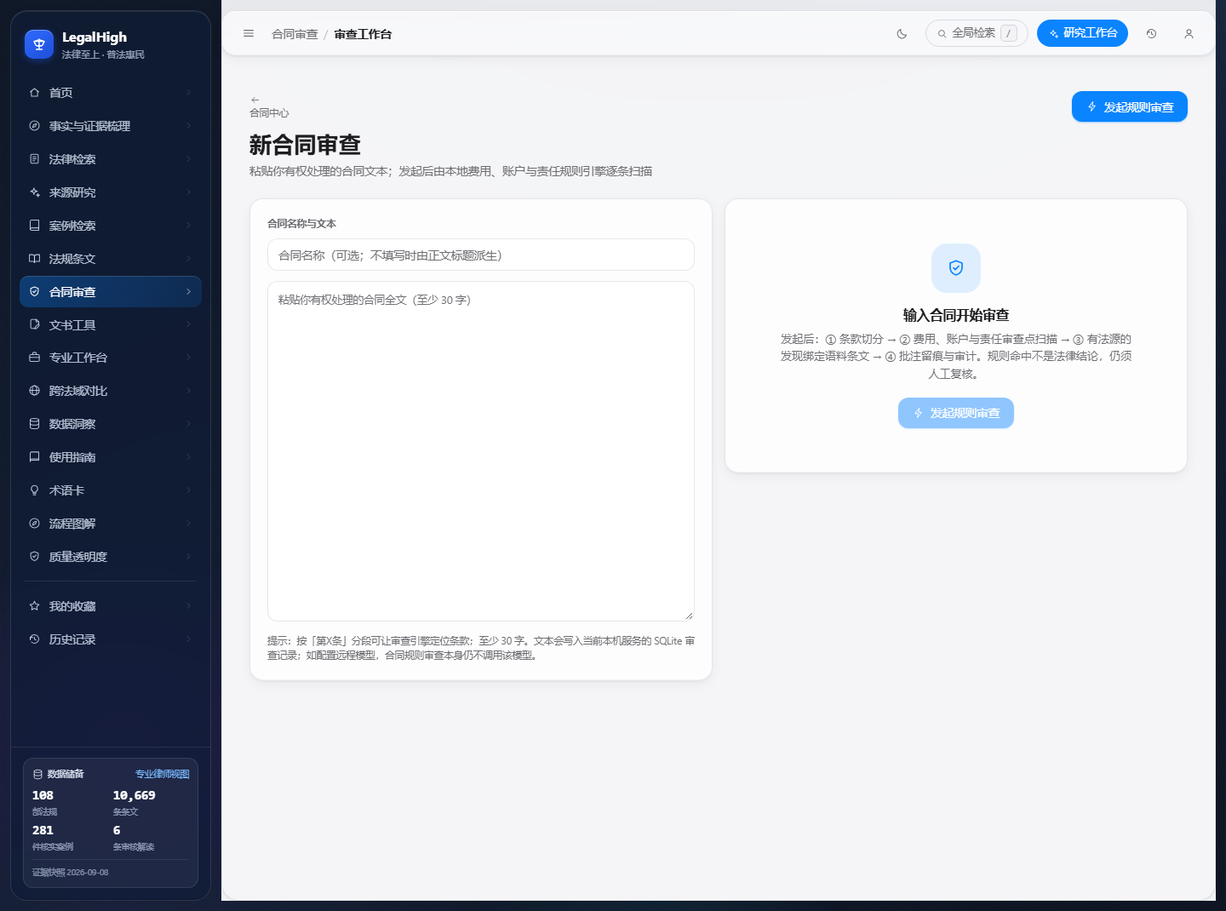
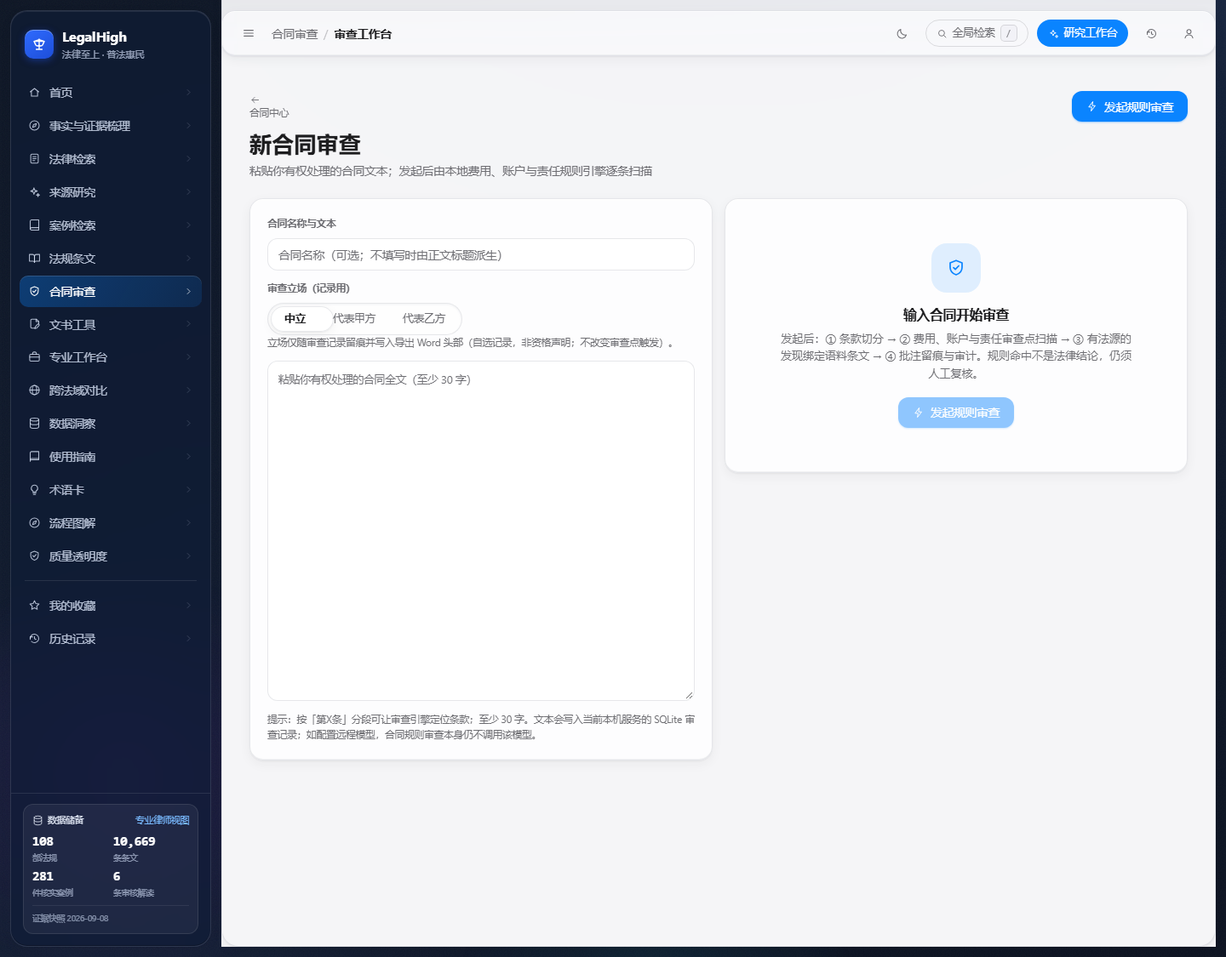
feat(review): 审查立场声明全链落地（R438，R437-T1）——表单 Segmented→result_json 持久化零迁移→Word 头部诚实措辞，6 契约测试+定向重拍+视觉验收（pytest 437→443）

diff --git a/web/src/components/pages/ContractReview.tsx b/web/src/components/pages/ContractReview.tsx
@@ -5,9 +5,10 @@ import { Link, useParams } from 'react-router-dom'
 import { Icon } from '../icons'
 import { ActionSheet, EmptyState, PageHeader, Segmented, useMediaQuery, useToast, fmtTime, type SheetAction } from '../ui'
 import { CitationChip } from '../domain'
-import { api, ApiError, type Annotation, type AuditEntry, type Finding, type Review } from '../../lib/api'
+import { api, ApiError, type Annotation, type AuditEntry, type Finding, type Review, type ReviewStance } from '../../lib/api'
 
 const CATEGORY_LABEL: Record<string, string> = { fee: '费用', account: '账户', liability: '责任' }
+const STANCE_LABEL: Record<ReviewStance, string> = { party_a: '代表甲方', party_b: '代表乙方', neutral: '中立' }
 const STATE_LABEL: Record<Annotation['state'], { label: string; cls: string }> = {
   pending: { label: '待复核', cls: 'bdg-orange' },
   adopted: { label: '已采纳', cls: 'bdg-green' },
@@ -34,6 +35,8 @@ export default function ContractReview() {
   const [amendText, setAmendText] = useState('')
   const returnFileRef = useRef<HTMLInputElement>(null)
   const [reviewTitle, setReviewTitle] = useState('')
+  // 审查立场（R437-T1）：使用者自选记录，不改变审查点触发
+  const [stance, setStance] = useState<ReviewStance>('neutral')
   const [reviewText, setReviewText] = useState('')
   // 窄屏（R336）：三栏工作台转分步向导（目录/正文/风险 单选切换）；桌面三栏不变
   const isNarrow = useMediaQuery('(max-width: 767.98px)')
@@ -61,7 +64,7 @@ export default function ContractReview() {
     if (!reviewText.trim()) { toast('审查文本为空', 'err'); return }
     setBusy(true); setError(null)
     try {
-      const created = await api.createReview(reviewText, reviewTitle.trim() || undefined)
+      const created = await api.createReview(reviewText, reviewTitle.trim() || undefined, stance)
       setRid(created.review_id)
       toast('规则审查完成：费用、账户与责任审查点已扫描', 'ok')
     } catch (e) {
@@ -181,6 +184,13 @@ export default function ContractReview() {
               <div className="tiny bold">合同名称与文本</div>
             </div>
             <input className="inp mb-12" aria-label="合同名称" placeholder="合同名称（可选；不填写时由正文标题派生）" value={reviewTitle} onChange={(e) => setReviewTitle(e.target.value)} />
+            <div className="row mb-8"><div className="tiny bold">审查立场（记录用）</div></div>
+            <Segmented ariaLabel="审查立场选择" value={stance} onChange={(k) => setStance(k as ReviewStance)} options={[
+              { key: 'neutral', label: '中立' },
+              { key: 'party_a', label: '代表甲方' },
+              { key: 'party_b', label: '代表乙方' },
+            ]} />
+            <div className="tiny mb-12">立场仅随审查记录留痕并写入导出 Word 头部（自选记录，非资格声明；不改变审查点触发）。</div>
             <textarea className="ta" aria-label="合同文本" placeholder="粘贴你有权处理的合同全文（至少 30 字）" style={{ minHeight: 400, fontSize: 12.5, lineHeight: 1.9 }} value={reviewText} onChange={(e) => setReviewText(e.target.value)} />
             <div className="tiny mt-8">提示：按「第X条」分段可让审查引擎定位条款；至少 30 字。文本会写入当前本机服务的 SQLite 审查记录；如配置远程模型，合同规则审查本身仍不调用该模型。</div>
           </div>
@@ -218,6 +228,7 @@ export default function ContractReview() {
               })}
             </div>
             <div className="panel-f">
+              <div className="tiny mb-8">审查立场：<b>{STANCE_LABEL[review.result.stance ?? 'neutral']}</b>（自选记录，非资格声明）</div>
               <div className="risk-stat" style={{ marginBottom: 10 }}>
                 <div className="rs-box rs-high"><b>{review.result.summary.high}</b>高风险</div>
                 <div className="rs-box rs-mid"><b>{review.result.summary.medium}</b>中风险</div>

diff --git a/web/src/lib/api.ts b/web/src/lib/api.ts
@@ -110,8 +110,12 @@ export interface Finding {
 
 export interface Clause { id: string; label: string; heading: string; text: string }
 
+export type ReviewStance = 'party_a' | 'party_b' | 'neutral'
+
 export interface ReviewResult {
   title: string
+  /** 审查立场（R437-T1）：使用者自选记录，非资格声明；不改变审查点触发。 */
+  stance?: ReviewStance
   clauses: Clause[]
   findings: Finding[]
   summary: { high: number; medium: number; low: number; by_category: Record<ReviewCategory, number> }
@@ -295,15 +299,15 @@ export const api = {
   }>('/evals'),
 
   // 合同审查
-  analyzeContractText: (contractText: string, title?: string) =>
+  analyzeContractText: (contractText: string, title?: string, stance?: ReviewStance) =>
     req<ReviewResult>('/reviews/analyze', {
       method: 'POST',
-      body: JSON.stringify({ contract_text: contractText, title }),
+      body: JSON.stringify({ contract_text: contractText, title, stance }),
     }),
-  createReview: (contractText: string, title?: string) =>
+  createReview: (contractText: string, title?: string, stance?: ReviewStance) =>
     req<{ review_id: string } & ReviewResult>('/reviews', {
       method: 'POST',
-      body: JSON.stringify({ contract_text: contractText, title }),
+      body: JSON.stringify({ contract_text: contractText, title, stance }),
     }),
   getReview: (rid: string) => req<Review>(`/reviews/${rid}`),
   transitionAnnotation: (rid: string, findingId: string, action: 'adopt' | 'amend' | 'reject' | 'reopen', amendedText?: string) =>

diff --git a/server/tests/test_review_stance.py b/server/tests/test_review_stance.py
@@ -1,0 +1,90 @@
+# -*- coding: utf-8 -*-
+"""审查立场（stance，R437-T1）契约测试：可选枚举、缺省中立、持久化与 DOCX 头部呈现。
+
+设计边界（docs/plan/合同审查方法论吸收设计-2026-09-29.md §T1）：
+立场只做记录与呈现，不改变审查点触发——引擎输出对 stance 无感，
+断言重点是「记录-持久化-导出」三段链路与非法值拒绝。
+"""
+import io
+import zipfile
+
+from fastapi.testclient import TestClient
+
+from app.main import app
+
+ADMIN_TOKEN = "stance-admin-token-0123456789-abcdef"  # ≥32 字符（fail-closed 纪律）
+CONTRACT = "第一条 费用：甲方应向乙方支付定金人民币五万元（占合同总价百分之三十）。第二条 本协议最终解释权归甲方所有。"
+
+
+def _headers():
+    return {"X-LegalHigh-Admin-Token": ADMIN_TOKEN}
+
+
+def _setup(monkeypatch):
+    monkeypatch.setenv("LH_ADMIN_TOKEN", ADMIN_TOKEN)
+    monkeypatch.setenv("LH_ADMIN_PRINCIPAL", "stance-tester")
+
+
+def test_stance_defaults_to_neutral_and_persists(tmp_db, monkeypatch):
+    _setup(monkeypatch)
+    with TestClient(app) as client:
+        r = client.post("/api/reviews", headers=_headers(), json={"contract_text": CONTRACT})
+        assert r.status_code == 200
+        rid = r.json()["review_id"]
+        assert r.json()["stance"] == "neutral"  # 缺省中立
+        got = client.get(f"/api/reviews/{rid}", headers=_headers()).json()
+        assert got["result"]["stance"] == "neutral"  # 随 result_json 持久化
+
+
+def test_stance_optional_enum_roundtrip(tmp_db, monkeypatch):
+    _setup(monkeypatch)
+    with TestClient(app) as client:
+        r = client.post("/api/reviews", headers=_headers(),
+                        json={"contract_text": CONTRACT, "stance": "party_b"})
+        assert r.status_code == 200 and r.json()["stance"] == "party_b"
+        rid = r.json()["review_id"]
+        got = client.get(f"/api/reviews/{rid}", headers=_headers()).json()
+        assert got["result"]["stance"] == "party_b"
+
+
+def test_stance_invalid_value_rejected(tmp_db, monkeypatch):
+    _setup(monkeypatch)
+    with TestClient(app) as client:
+        r = client.post("/api/reviews", headers=_headers(),
+                        json={"contract_text": CONTRACT, "stance": "lawyer"})
+        assert r.status_code == 422  # 枚举外拒绝（extra 校验纪律同 GateBody）
+
+
+def test_analyze_dry_run_echoes_stance(tmp_db, monkeypatch):
+    _setup(monkeypatch)
+    with TestClient(app) as client:
+        r = client.post("/api/reviews/analyze", json={"contract_text": CONTRACT, "stance": "party_a"})
+        assert r.status_code == 200 and r.json()["stance"] == "party_a"
+        r2 = client.post("/api/reviews/analyze", json={"contract_text": CONTRACT})
+        assert r2.json()["stance"] == "neutral"
+
+
+def _docx_text(data: bytes) -> str:
+    with zipfile.ZipFile(io.BytesIO(data)) as z:
+        return z.read("word/document.xml").decode("utf-8")
+
+
+def test_docx_header_carries_stance_label(tmp_db, monkeypatch):
+    _setup(monkeypatch)
+    with TestClient(app) as client:
+        rid = client.post("/api/reviews", headers=_headers(),
+                          json={"contract_text": CONTRACT, "stance": "party_a"}).json()["review_id"]
+        data = client.get(f"/api/reviews/{rid}/docx", headers=_headers()).content
+    text = _docx_text(data)
+    assert "审查立场：代表甲方" in text
+    assert "非资格声明" in text  # 诚实边界随行
+
+
+def test_docx_header_neutral_when_absent(tmp_db, monkeypatch):
+    """旧记录（无 stance 字段）导出：中立（未声明），不崩不编造。"""
+    _setup(monkeypatch)
+    with TestClient(app) as client:
+        rid = client.post("/api/reviews", headers=_headers(),
+                          json={"contract_text": CONTRACT}).json()["review_id"]
+        data = client.get(f"/api/reviews/{rid}/docx", headers=_headers()).content
+    assert "中立（未声明）" in _docx_text(data)

diff --git a/server/app/main.py b/server/app/main.py
@@ -14,6 +14,7 @@ from contextlib import asynccontextmanager
 from dataclasses import dataclass
 from datetime import date
 from pathlib import Path
+from typing import Literal
 
 from functools import lru_cache as cache
 from fastapi import Depends, FastAPI, File, Header, HTTPException, Request, UploadFile
@@ -567,6 +568,9 @@ def case_report_docx(body: CaseBody):
 class AnalyzeBody(BaseModel):
     title: str | None = Field(default=None, max_length=256)
     contract_text: str = Field(min_length=1, max_length=200_000)
+    # 审查立场（R437-T1，contract-review-pro 方法论吸收设计）：使用者自选记录，
+    # 只做记录与呈现（DOCX 头部/详情），不改变审查点触发——立场驱动规则属 T4 内容管线。
+    stance: Literal["party_a", "party_b", "neutral"] | None = Field(default=None)
 
 
 @app.post("/api/reviews/analyze")
@@ -574,6 +578,7 @@ def analyze(body: AnalyzeBody):
     if len(body.contract_text.strip()) < 30:
         raise HTTPException(422, "合同文本过短（至少 30 字）")
     result = review.analyze_contract(body.contract_text, body.title)
+    result["stance"] = body.stance or "neutral"
     # Evidence Ledger（FLERF §19/§23，R170）：审查依据条目入 append-only 账本。
     # dry-run 无持久 id——实体用随机 uuid，payload 只含公共条文哈希，不带合同文本。
     _write_evidence_ledger("review", [f.get("citation") for f in result.get("findings", []) if f.get("citation")])
@@ -599,6 +604,7 @@ def _write_evidence_ledger(entity_type: str, citations: list, actor: str = "anon
 @app.post("/api/reviews")
 def create_review(body: AnalyzeBody, admin: AdminPrincipal = Depends(require_admin)):
     result = review.analyze_contract(body.contract_text, body.title)
+    result["stance"] = body.stance or "neutral"  # 随 result_json 持久化（零 schema 迁移）
     rid = storage.create_review(result["title"], body.contract_text, result, actor=admin.name)
     # 账本实体=持久 rid（区别于 dry-run 的 uuid）；与 create 审计行同实体可并读
     _write_evidence_ledger("review", [f.get("citation") for f in result.get("findings", []) if f.get("citation")],

diff --git a/server/app/docxgen.py b/server/app/docxgen.py
@@ -158,6 +158,10 @@ def generate_review_docx(review: dict) -> bytes:
     date = datetime.now(timezone.utc).strftime("%Y-%m-%dT%H:%M:%SZ")
     doc.add_heading(review.get("title") or "合同审查记录", level=0)
     doc.add_paragraph(f"审查时间：{review.get('created_at', '')}　审查点：{review['result']['engine_meta']['checkpoint_count']} 个　风险：高 {review['result']['summary']['high']} / 中 {review['result']['summary']['medium']} / 低 {review['result']['summary']['low']}")
+    # 审查立场（R437-T1）：使用者自选记录，非资格声明；立场不改变审查点触发。
+    _stance_label = {"party_a": "代表甲方", "party_b": "代表乙方"}.get(
+        (review.get("result") or {}).get("stance"), "中立（未声明）")
+    doc.add_paragraph(f"审查立场：{_stance_label}（使用者自选记录，非资格声明；立场不改变审查点触发）")
     by_clause: dict = {}
     for f in review["result"]["findings"]:
         by_clause.setdefault(f.get("clause_id") or "__whole__", []).append(f)

diff --git a/AGENTS.md b/AGENTS.md
@@ -215,6 +215,7 @@
   - **第四百三十五轮（2026-09-29，检索实验收账轮——两负/中性实验如实入册 + g15 受控组收口，pytest 429→435）**：①**召回缺失诊断**：g30（标的物瑕疵履行）原始 BM25 **#40**（池可及）；g15（标价）**#179**（重排不可及）；labor×2 **#735/#1934**（深鸿沟，编排层已兜底）。②**实验 1 候选池 20→30/50**（全量 541 A/B）：池扩后归一化区间变宽压低边界候选相对分——**打落 gold-ad-false-ad 未救回 g30**（其在 50 候选中仍排 >5）→ 不采用。③**实验 2 数字写法归一化**（R39 登记的「两年/二年、30/三十」鸿沟类型；中文数字串→阿拉伯的确定性解析器，对称作用于查询与正文的覆盖度 bigram）：**中性零变化**——当前金标无数字鸿沟 miss（R39 时代案例已改题实录），R39 悬问就此定案「备而不采」（变体与解析器入本轮登记，未来 badcase 出现可直接复测）。④**g15「标价」构词鸿沟收口**：复合词「标价」在目标条文拆为「标明…价格」（crpl-imp-2024#10）——按 ADR-0005 模式新增 consumer-pricing 受控组（when=标价|价签|明码标价|计价单位|价格标示，组查询=条文规范词面「标明商品的品名 价格 计价单位 价签价目齐全」，组内实测 #1=实施条例#10、#2=价格法#13 双合法命中）；编排层三问法 crpl#10 稳定 r2（raw#1=价格法#13 亦合法），负向守卫（无标价词不激活）+端到端 qa 答案卡双含两法条文——**6 项钉子测试**（tests/test_consumer_pricing_retrieval.py，ADR 式名次锚 r2）。⑤**主线收敛定案**：重排（R430/R431 两代）与召回实验全部可试信号已穷尽（数字归一中性/池扩展打落/字段扩展无增益/词典与查询扩展两次负结果在册）——确定性改进到此收敛，进一步增益属语义再评估（gated 既有判定）。验证：pytest **435** 全绿（labor ADR-0005 锚与 needs/qa 定向回归先过）。
   - **第四百三十六轮（2026-09-29，时点对照全时间线性质门——as_of 覆盖从 11 项抽查升级为全量扫描，pytest 435→437）**：B5（版本冲突金标维度）的**诚实适配定案**：legal-kb 式「时点 T 应引旧版答案」金标与本项目 as_of 合规设计冲突（检索恒为现行版+同条号对照+明示「不构成时点适用认定」——R144 口径），不采纳该形态；正确形态=**registry 派生的非循环性质门**（tests/test_temporal_timeline_sweep.py）：P1 适用下界（d=max(公布,施行) 当日解析不得早于该版本）/P2 生效前不可用（d-1 日解析须 None 或严格更早）/P3 远期取最新（2099 年=(公布,施行) 字典序最大者）——性质从注册表日期独立派生，不与 applicable_version 实现共享判定逻辑；P4 对照链路（76 部多版本法全量：最新非现行版本在其适用起点日，historical_for_card 用该版本首条条号返回该版本文本）。**实测覆盖：300 带日期版本×P1/P2 + 108 部×P3 + 76 部×P4 ≈ 780+ 断言全过零违规**（首跑即过非空转——覆盖数已程序化打印核实）。教训沉淀：**「升级覆盖面」类门必须打印实际断言数防空转（路径错/零文件=静默全绿）**。验证：pytest **437** 全绿。
   - **第四百三十七轮（2026-09-29，合同审查方法论吸收设计先行件——B3 的内容闸门定案）**：contract-review-pro（R434 登记，MIT）方法论对映设计落档 `docs/plan/合同审查方法论吸收设计-2026-09-29.md`：T1 立场声明（stance 可选字段=记录呈现不改规则，无内容闸门可即时执行——**B3 下一执行项**）；T2 框架审阅四问（语义判断确定性不可实现，归 AI 提示层+四重门，随额度窗口）；**T3 w:del 修订路由的「内容先行」定案**——当前两条含「删除」的建议（L3「删除或改写」二义、L4 条款内短语级）都不能整段删、从自由文本抽删除跨度=非确定性法律内容操作，纯工程先行只会产出死代码（违反「假交互要么实现要么禁用」纪律）；蓝图=checkpoints 可选 revision 块（action=delete|replace + target 逐字跨度 + replacement）+构建期「target 必须逐字存在于条款文本」程序化校验（同术语卡引用核验纪律）+首批候选（最终解释权表述删除/定金比例数字替换——数字级替换法律确定性最高）+replacement 文本逐条走审查点金标（决策 13），MIT 出处注明；T4 风险点模板按合同类型（租赁/劳动/买卖，语料已备）金标三件套滚动。纯设计轮无运行时改动。
+  - **第四百三十八轮（2026-09-29，T1 立场声明落地——审查立场全链（表单→持久化→Word 头部），pytest 437→443）**：R437 设计的首件即时执行：①**后端**——`AnalyzeBody` 增可选 `stance`（Literal 枚举 party_a|party_b|neutral，枚举外 422 与 GateBody 同纪律）；analyze/create 两端点回填 `result["stance"]`（缺省 neutral），**随 result_json 持久化零 schema 迁移**（reviews 表本就整存 result）；②**DOCX**——修订导出头部第二行「审查立场：代表甲方/乙方/中立（未声明）（使用者自选记录，非资格声明；立场不改变审查点触发）」诚实措辞随行，旧记录（无 stance）导出为「中立（未声明）」不编造；③**前端**——ContractReview 表单增 Segmented 三段立场选择器（默认中立）+小字说明，创建请求携带 stance，结果面板风险统计上方显示立场行；api.ts ReviewStance 类型+双方法签名。④**验证**：6 项契约测试（缺省中立持久化/枚举往返/非法值 422/dry-run 回显/DOCX 头部立场/旧记录兜底）；tsc/lint/build 绿；**隔离服务定向重拍 14-contracts+15-contract-review strict 0 问题**（8013+5199 双令牌环境，R410 纪律）+ visual-judge 视觉验收 PASS（立场区块位置/选中态/说明行/整体布局）；pytest **443** 全绿；targeted 巡检截断的 report.json 按 R406 先例恢复全量记录。
   - **第三百二十一轮（2026-09-23，GLM-4.7-Flash 推理模型行为定案——NLI 评测仍受免费额度限制）**：GLM API 短暂恢复后实测三个关键发现：①**GLM-4.7-Flash 是推理模型**——输出走 reasoning_content（model_extra 字段）而非 content，max_tokens=8/50 时全部 token 耗在推理链上 content 为空（test_connection 的空响应根因），max_tokens≥1000 时正常产出（reasoning ~1549 tokens + content 答案）；②**ai_governor 的 MAX_OUTPUT_TOKENS=4096 已兼容**推理模型——正式 chat 调用无问题；③**免费额度限制批量评测**——单次调用可通过但 llm_eval 连续查询即触发 429（免费 tier RPM 极低），NLI 全量评测（541 组×多次调用）需付费额度或等待非高峰时段。技术发现登记供后续 NLI 评测执行时参考。
   - **第三百一十至三百一十八轮（2026-09-23，产品导航与生态层密集迭代——九个功能特性全部落地推送）**：
   - **R310 搜索建议下拉**：SearchSuggest.tsx——实时匹配 215 张术语卡引导从口语到法条词面（纯 JS 零依赖，词面 startsWith/includes 评分排序，↓↑ 键盘导航+Enter 跳转），直接解决金标集实录的词法鸿沟 UX 问题（ac825e3）。

diff --git a/CHANGELOG.md b/CHANGELOG.md
@@ -4,6 +4,8 @@
 
 ### Added / 新增
 
+- Review stance declaration, end to end (R438, design item T1 of the contract-review methodology absorption): the review-creation form now carries an explicit stance — 中立 / 代表甲方 / 代表乙方 (default neutral, Segmented control) — that is recorded with the review, shown in the results panel, and written into the exported revision DOCX's header as "审查立场：…（使用者自选记录，非资格声明；立场不改变审查点触发）". Backend: optional `stance` enum on the analyze/create bodies (out-of-enum values rejected 422, same extra-validation discipline as GateBody), echoed into `result["stance"]` so it persists inside result_json with zero schema migration; legacy records without the field export as "中立（未声明）" — no fabrication. By design the stance is record-and-present only: checkpoint firing is untouched (stance-driven rule differences belong to the T4 content pipeline). Six contract tests (default-neutrality persistence, enum round-trip, invalid-value rejection, dry-run echo, DOCX header label, legacy-record fallback); tsc/lint/build green; targeted strict re-sweep of both contract-review routes against an isolated token-configured server pair (0 problems) plus visual-judge acceptance of the new form block; pytest 437→443.
+
 - Temporal full-timeline property gate — as_of coverage upgraded from 11 spot tests to a whole-registry sweep (R436): the B5 backlog item ("version-conflict gold dimension", legal-kb inspired) was first adjudicated against the product's own compliance design — a "at timepoint T the answer must cite the old version" gold would contradict the deliberately conservative as_of contract (search always runs on the current text; as_of attaches same-number historical contrast plus an explicit "this is not a determination of the timepoint-applicable text" notice, R144), so that form is rejected on record. The correct adaptation landed as tests/test_temporal_timeline_sweep.py: registry-derived, non-circular properties over every dated version — P1 lower bound (at d=max(promulgation,effective), the resolved version must not be strictly earlier), P2 not-yet-in-force (at d−1, resolution must be None or strictly earlier), P3 far-future (2099 resolves to the lexicographically-latest dated version), and P4 contrast path (for each of the 76 multi-version laws with fulltext, at the applicable-start date of its latest non-current version, historical_for_card with that version's own first article returns that version's text). Measured coverage: 300 dated versions × P1/P2 + 108 registries × P3 + 76 laws × P4 ≈ 780+ assertions, zero violations on first run — with the assertion count programmatically printed to rule out a vacuous pass (a sweep that silently matched zero files would otherwise be all-green). pytest 435→437.
 
 - Retrieval-experiment settlement round: two honest negatives filed, g15 closed via a controlled pricing group (R435): recall-miss diagnosis located the four stragglers at raw-BM25 #40 (标的物 defect liability), #179 (标价), and #735/#1934 (labor, already covered by the ADR-0005 orchestrated groups). Experiment 1 — extending the rerank candidate pool 20→30/50 — fails the rule-⑲ gate: the wider min-max normalization range demotes a borderline hit (gold-ad-false-ad) while g30 still ranks past 5 among 50 candidates; not adopted. Experiment 2 — digit-normalization coverage (the R39 gap type: 两年/二年、30/三十; deterministic Chinese-numeral-run parser applied symmetrically to query and article bigrams) — measures exactly zero change on the current 541-case gold: no digit-gap misses survive (the R39-era case was reworded at annotation time), settling the long-registered question as "prepared, not adopted" with the parser on file for direct re-testing when a real badcase appears. The one viable rescue landed: the compound-word gap 「标价」 vs 「标明…价格」 is closed with a consumer-pricing controlled group in the ADR-0005 pattern (when-gated on 标价/价签/明码标价/计价单位/价格标示; group query = the article's own normative vocabulary, top-1=Implementation-Regulations art. 10, top-2=Price-Law art. 13 — both legitimate answers); orchestrated search puts crpl#10 at a stable rank 2 across three question variants with the negative guard (no pricing words → group inert) and an end-to-end qa check, pinned by six new tests. With this round the deterministic-improvement line converges: every candidate signal (dictionary, query expansion, field extension, digit normalization, pool extension, two rerank generations) has been tried and measured — further gains belong to semantic re-evaluation under its standing gate. pytest 429→435.

diff --git a/docs/plan/待执行项价值排序-2026-09-29.md b/docs/plan/待执行项价值排序-2026-09-29.md
@@ -21,7 +21,7 @@
 |---|---|---|---|---|
 | B1 | 检索重排三代实验：剩余 16 miss（12 排序不足 + 4 召回缺失） | 高（hit@5 0.9704→天花板约 0.977 内） | 低 | **R435 已清账**：数字写法归一化=中性零变化（R39 悬问定案「备而不采」）；候选池 20→30/50=打落 1 例不采用；label+chapter 字段无增益（R431 实验位）。剩余 12 排序不足无新确定性信号可试——重排主线到此收敛，下一步是语义再评估（gated 既有判定） |
 | B2 | 召回层实验（4 召回缺失：g15 标价/g30 标的物/labor×2） | 中高 | 中 | **R435 部分收口**：g15「标价」构词鸿沟已由 consumer-pricing 受控组收口（编排层 r2，ADR-0005 模式）；g30 原始 BM25 #40（池扩展可及但打落他例，不采用，留档）；labor×2 深鸿沟（#735/#1934）已有编排层受控组兜底（ADR-0005）——召回层实验就此收账，无进一步动作 |
-| B3 | 合同审查方法论吸收（contract-review-pro，MIT） | 中高 | 中-高 | **R437 设计先行件已落档**（docs/plan/合同审查方法论吸收设计-2026-09-29.md）：T1 立场声明（stance 可选字段，记录呈现不改规则——**下一执行项**）/T2 框架审阅四问（AI 提示层，随额度窗口）/T3 w:del 修订路由（**内容先行定案**：revision 块 schema+构建期 target 逐字校验+首批 3-5 个确定性内容，工程件随内容同轮落地防死代码）/T4 风险点模板按合同类型滚动扩容 |
+| B3 | 合同审查方法论吸收（contract-review-pro，MIT） | 中高 | 中-高 | **R437 设计先行件已落档**（docs/plan/合同审查方法论吸收设计-2026-09-29.md）：T1 立场声明（**R438 已落地全链**：表单→持久化→Word 头部，6 契约测试）/T2 框架审阅四问（AI 提示层，随额度窗口）/T3 w:del 修订路由（**内容先行定案**：revision 块 schema+构建期 target 逐字校验+首批 3-5 个确定性内容，工程件随内容同轮落地防死代码）/T4 风险点模板按合同类型滚动扩容 |
 | B4 | Agent Skill 外部分发 | 中 | 极低 | `skills/legalhigh/SKILL.md` 已就绪（R433）；legal-skillhub/Greater-China-Legal 收录申请 = 一次 PR/issue（gated A2） |
 | B5 | 版本冲突/位阶冲突金标维度（legal-kb 启发） | 中 | 低-中 | **R436 已落地（诚实适配形态）**：legal-kb 式「时点应引旧版」金标与 as_of 保守对照设计冲突（R144 口径）不采纳；落地为 registry 派生非循环性质门（300 版本×P1/P2 + 108 部 P3 + 76 部 P4 对照 ≈780+ 断言全过，pytest 435→437） |
 | B6 | laws-md/laws.json 镜像门扩展到 CI 快门 | 低中 | 极低 | R432 已有 3 项钉子测试进 pytest；可选：pre-commit 快门加 export 幂等检查（导出两次 diff 为空） |

diff --git a/README.md b/README.md
@@ -125,7 +125,7 @@ cd web && npm ci && npm run dev
 
 | 门禁 / Gate | 内容 / What it checks |
 |---|---|
-| 后端测试 / Backend tests | 437 项 pytest（引用绑定、状态机、PIPL 级联、fail-closed、评测单调性、证据账本、重编号映射、robots 红线代码层、laws-md 导出镜像、受控检索组名次锚、时点适用全时间线性质扫描等；2026-09-29 实测） |
+| 后端测试 / Backend tests | 443 项 pytest（引用绑定、状态机、PIPL 级联、fail-closed、评测单调性、证据账本、重编号映射、robots 红线代码层、laws-md 导出镜像、受控检索组名次锚、时点适用全时间线性质扫描、审查立场契约等；2026-09-29 实测） |
 | 案例库 / Case library | 281 件可公开核验案例（最高人民法院指导案例 278 件 + 域外经典判例 3 件）；裁判要点与裁判结果逐字出自官方发布页快照并由测试钉住，法条引用经语料逐字核验（2026-09-27 实测） |
 | 浏览器巡检 / Route sweeps | 无头 Chrome 逐路由截图 + console/网络零错误门（67 路由，2026-09-27 实测 0 问题） |
 | 对比度 / Contrast | WCAG AA 正文 4.5:1 + UI 指示器 3:1（strict 模式） |
